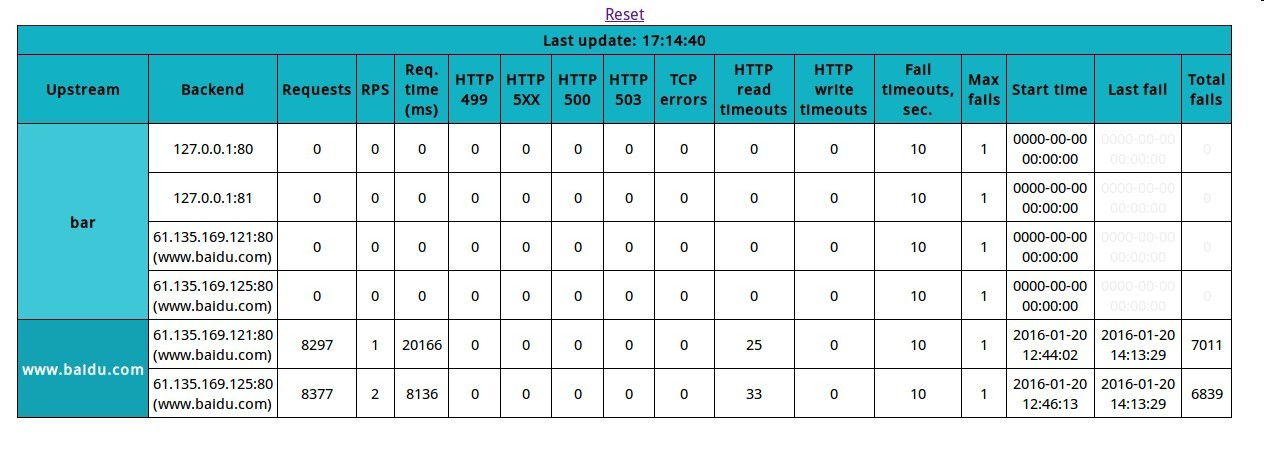
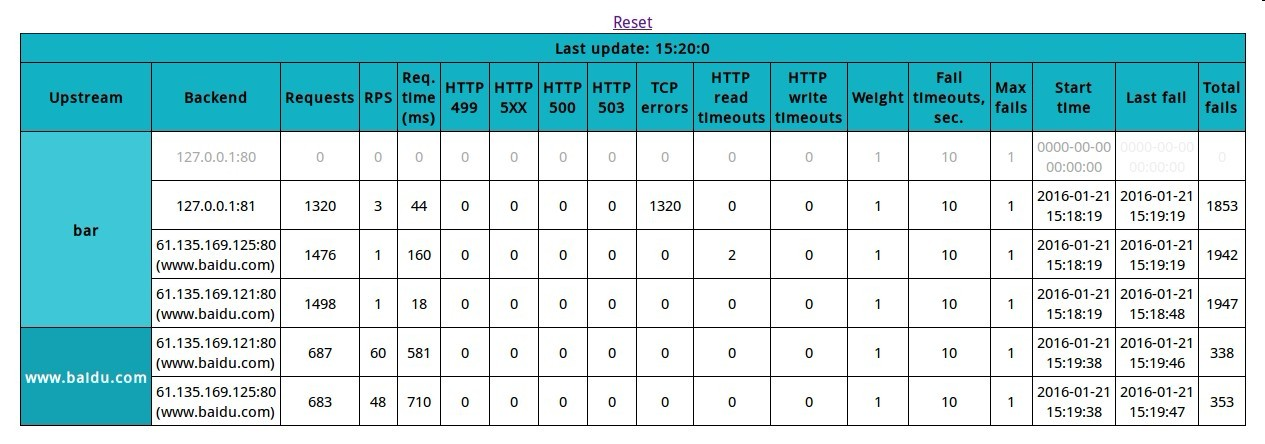
support weight show

Changed region(s): [[0.0, 0.0, 0.9873, 0.9662]]

diff --git a/src/ngx_http_ustats_module.c b/src/ngx_http_ustats_module.c
@@ -112,7 +112,7 @@ const char HTML[] =
 		"\n"
 		"        <script>\n"
 		"            var REFRESH_INTERVAL = %d;\n"
-		"            var TABLE_COLUMNS_COUNT = 17;\n"
+		"            var TABLE_COLUMNS_COUNT = 18;\n"
 		"\n"
 		"            var updating = 0;\n"
 		"            var sortInfo = new Array();\n"
@@ -384,7 +384,7 @@ const char HTML[] =
 		"                data = eval('(' + data + ')');\n"
 		"\n"
 		"                var headers = [\"Upstream\", \"Backend\", \"Requests\", \"RPS\", \"Req. time (ms)\", \"HTTP 499\", \"HTTP 5XX\", \"HTTP 500\", \"HTTP 503\", \"TCP errors\", \"HTTP<br/>read timeouts\",\n"
-		"                               \"HTTP<br/>write timeouts\", \"Fail timeouts, sec.\", \"Max fails\", \"Start time\", \"Last fail\", \"Total fails\"];\n"
+		"                               \"HTTP<br/>write timeouts\", \"Weight\" ,\"Fail timeouts, sec.\", \"Max fails\", \"Start time\", \"Last fail\", \"Total fails\"];\n"
 		"\n"
 		"                var table = document.createElement(\"table\");\n"
 		"\n"
@@ -474,7 +474,7 @@ const char HTML[] =
 		"                            backendRow.appendChild(paramCell);\n"
 		"\n"
 		"                            // Detect what column this parameter resides in and allow/disallow sorting\n"
-		"                            if (param != 0 && param != 13 && param != 14) // not name, not fail timeout and not max fails\n"
+		"                            if (param != 0 && param != 14 && param != 15) // not name, not fail timeout and not max fails\n"
 		"                            {\n"
 		"                                paramCell.className += \" cellSortTrigger\";\n"
 		"                                paramCell.setAttribute(\"onclick\", \"onSortTriggerClick(this);\");\n"
@@ -956,7 +956,7 @@ static ngx_buf_t * ngx_http_ustats_create_response_json(ngx_http_request_t * r)
 			size += (sizeof(ngx_uint_t) + sizeof(", ")) * 2;
 
 			// numeric parameters
-			size += (sizeof(ngx_uint_t) + sizeof(", ")) * 13;
+			size += (sizeof(ngx_uint_t) + sizeof(", ")) * 14;
 
 			// start time string
       size += sizeof(u_char) * 24 + sizeof("\"\"") + sizeof(", ");
@@ -1053,6 +1053,8 @@ static ngx_buf_t * ngx_http_ustats_create_response_json(ngx_http_request_t * r)
 			b->last = ngx_sprintf(b->last, "%d, ", *(ngx_uint_t*)USTATS_CALC_ADDRESS(peers->peer[k].shm_start_offset, USTATS_READ_TIMEOUT_STAT_OFFSET));
 			// http write timeouts
 			b->last = ngx_sprintf(b->last, "%d, ", *(ngx_uint_t*)USTATS_CALC_ADDRESS(peers->peer[k].shm_start_offset, USTATS_WRITE_TIMEOUT_STAT_OFFSET));
+			// weight
+			b->last = ngx_sprintf(b->last, "%ui, ", peers->peer[k].weight);
 			// fail timeout
 			b->last = ngx_sprintf(b->last, "%ui, ", peers->peer[k].fail_timeout);
 			// max fails

diff --git a/README.md b/README.md
@@ -26,23 +26,24 @@ request url:
 {
 	"bar":
 	[
-		["127.0.0.1:80", 0, 0, 0, 0, 0, 0, 0, 0, 0, 0, 0, 0, 10, 1, "0000-00-00 00:00:00", "0000-00-00 00:00:00", 0],
-		["127.0.0.1:81", 0, 0, 0, 0, 0, 0, 0, 0, 0, 0, 0, 0, 10, 1, "0000-00-00 00:00:00", "0000-00-00 00:00:00", 0],
-		["61.135.169.121:80 (www.baidu.com)", 0, 0, 0, 0, 0, 0, 0, 0, 0, 0, 0, 0, 10, 1, "0000-00-00 00:00:00", "0000-00-00 00:00:00", 0],
-		["61.135.169.125:80 (www.baidu.com)", 0, 0, 0, 0, 0, 0, 0, 0, 0, 0, 0, 0, 10, 1, "0000-00-00 00:00:00", "0000-00-00 00:00:00", 0],
+		["127.0.0.1:80", 1, 0, 0, 0, 0, 0, 0, 0, 0, 0, 0, 0, 1, 10, 1, "0000-00-00 00:00:00", "0000-00-00 00:00:00", 0],
+		["127.0.0.1:81", 0, 0, 1320, 3, 44, 0, 0, 0, 0, 1320, 0, 0, 1, 10, 1, "2016-01-21 15:18:19", "2016-01-21 15:19:19", 1853],
+		["61.135.169.125:80 (www.baidu.com)", 0, 0, 1476, 1, 160, 0, 0, 0, 0, 0, 2, 0, 1, 10, 1, "2016-01-21 15:18:19", "2016-01-21 15:19:19", 1942],
+		["61.135.169.121:80 (www.baidu.com)", 0, 0, 1498, 1, 18, 0, 0, 0, 0, 0, 0, 0, 1, 10, 1, "2016-01-21 15:18:19", "2016-01-21 15:18:48", 1947],
 		0
 	],
 	"www.baidu.com":
 	[
-		["61.135.169.121:80 (www.baidu.com)", 0, 1, 8296, 1, 60401, 0, 0, 0, 0, 0, 20, 0, 10, 1, "2016-01-20 12:44:02", "2016-01-20 14:13:22", 7003],
-		["61.135.169.125:80 (www.baidu.com)", 0, 1, 8375, 1, 360, 0, 0, 0, 0, 0, 24, 0, 10, 1, "2016-01-20 12:46:13", "2016-01-20 14:13:23", 6826],
+		["61.135.169.121:80 (www.baidu.com)", 0, 0, 687, 48, 861, 0, 0, 0, 0, 0, 0, 0, 1, 10, 1, "2016-01-21 15:19:38", "2016-01-21 15:19:46", 338],
+		["61.135.169.125:80 (www.baidu.com)", 0, 0, 683, 40, 793, 0, 0, 0, 0, 0, 0, 0, 1, 10, 1, "2016-01-21 15:19:38", "2016-01-21 15:19:47", 353],
 		1
 	]
 }
+
 ```       
 upstream name:     
 [   
-    [peer_name, down, failed, requests, RPS, SPEED, 499, 5xx, 500, 503, tcp_errors, R_timeouts, w_timeouts, f_t, m_f, s_t, last_fail_t, tot_f],
+    [peer_name, down, failed, requests, RPS, SPEED, 499, 5xx, 500, 503, tcp_errors, R_timeouts, w_timeouts, weight, f_t, m_f, s_t, last_fail_t, tot_f],
 implicit    
 ]
 
